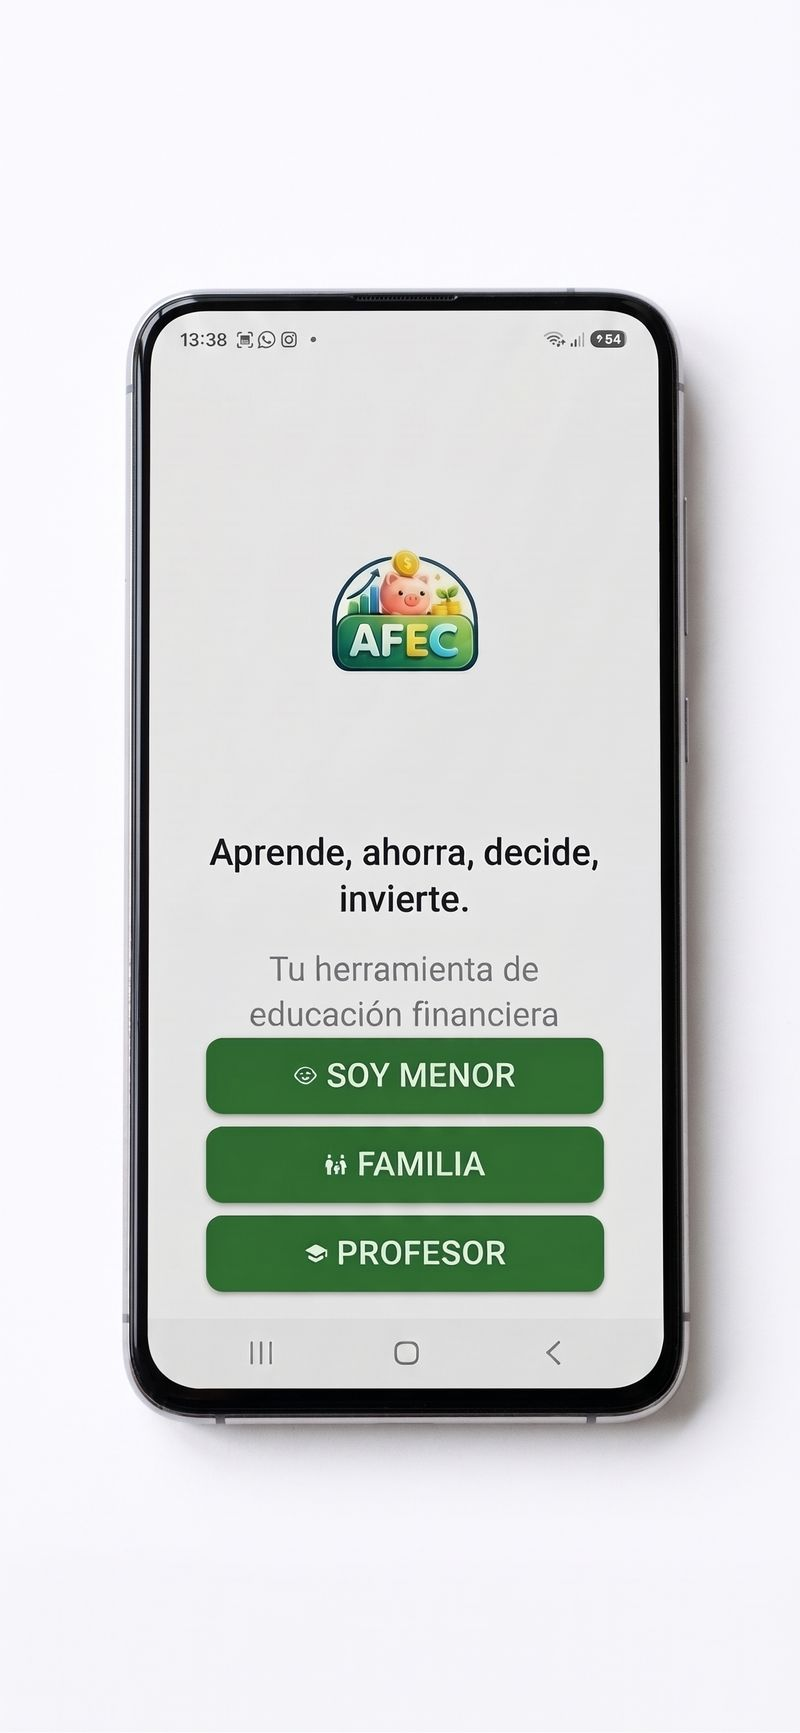
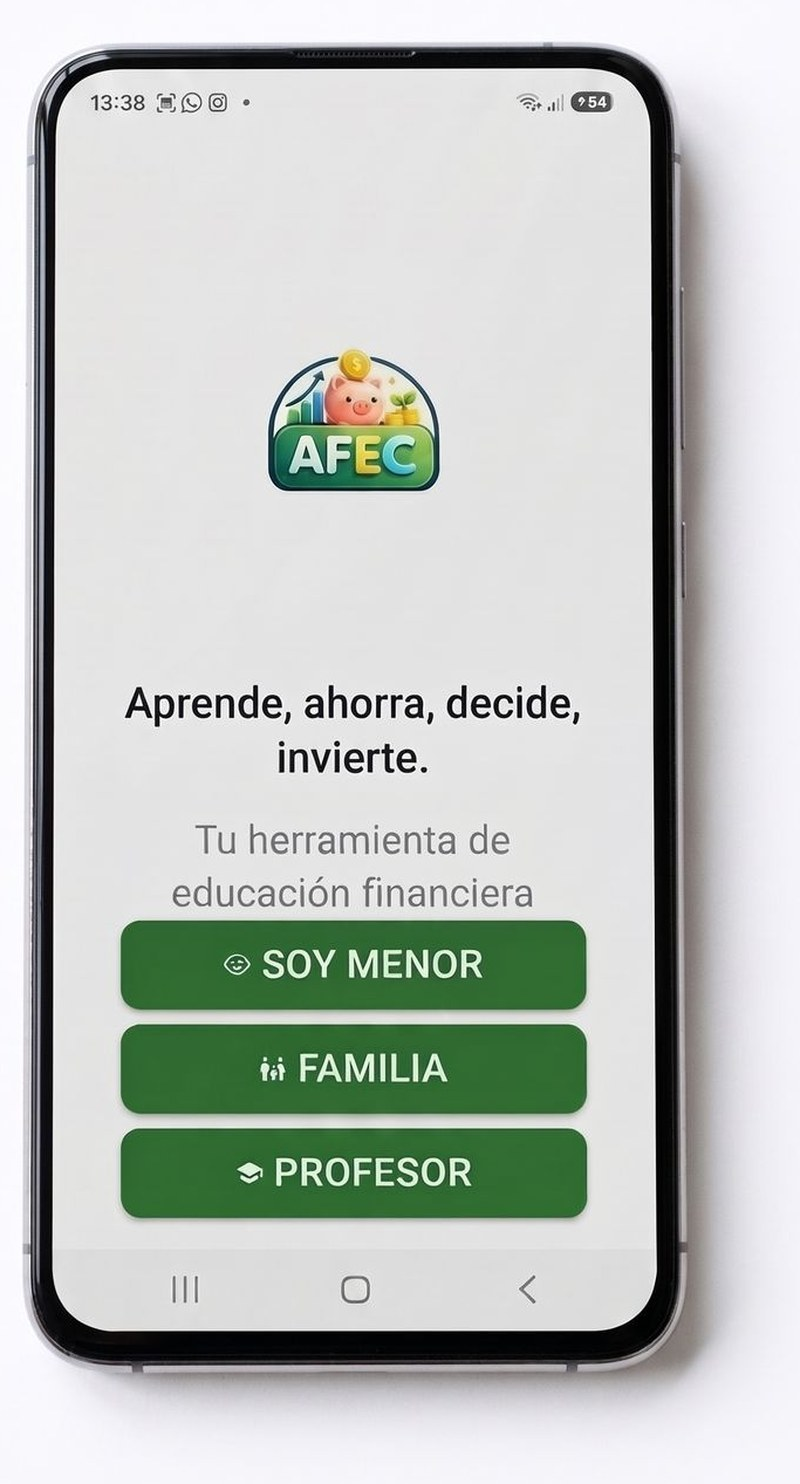
Guia vinculacion: moviles recortados sin fondo blanco (p1 y p4 mismo tamano visible) + cache v2

diff --git a/vinculacion-colegio.html b/vinculacion-colegio.html
@@ -169,7 +169,7 @@
       <p>En Google Play busca <strong>AFEC1</strong> y descárgala en el móvil o tablet de casa.
          Al abrirla verás esta pantalla: los primeros en darse de alta son <strong>papá o mamá</strong>,
          con la opción <strong>«Familia»</strong>.</p>
-      <img class="captura" src="img/vinculacion-entrada-real.jpg" alt="Pantalla de entrada de AFEC1 con las opciones Soy Menor, Familia y Profesor">
+      <img class="captura" src="img/vinculacion-entrada-real.jpg?v=2" alt="Pantalla de entrada de AFEC1 con las opciones Soy Menor, Familia y Profesor">
       <p class="pie-foto">Pantalla de entrada de AFEC1</p>
     </div>
   </div>
@@ -201,7 +201,7 @@
       <h3>Entra con el PIN y pulsa «Mi colegio»</h3>
       <p>Entra en la zona de tu hijo con su PIN y pulsa la tarjeta <strong>«Mi colegio»</strong>.
          Ahí van los dos códigos de la hoja y el botón verde <strong>«Vincular»</strong>.</p>
-      <img class="captura" src="img/vinculacion-micolegio-real.jpg" alt="Pantalla real de Mi colegio en AFEC1 con los huecos del ID AFEC y el código de vinculación">
+      <img class="captura" src="img/vinculacion-micolegio-real.jpg?v=2" alt="Pantalla real de Mi colegio en AFEC1 con los huecos del ID AFEC y el código de vinculación">
       <p class="pie-foto">Pantalla «Mi colegio»: aquí van los dos códigos de la hoja</p>
     </div>
   </div>
